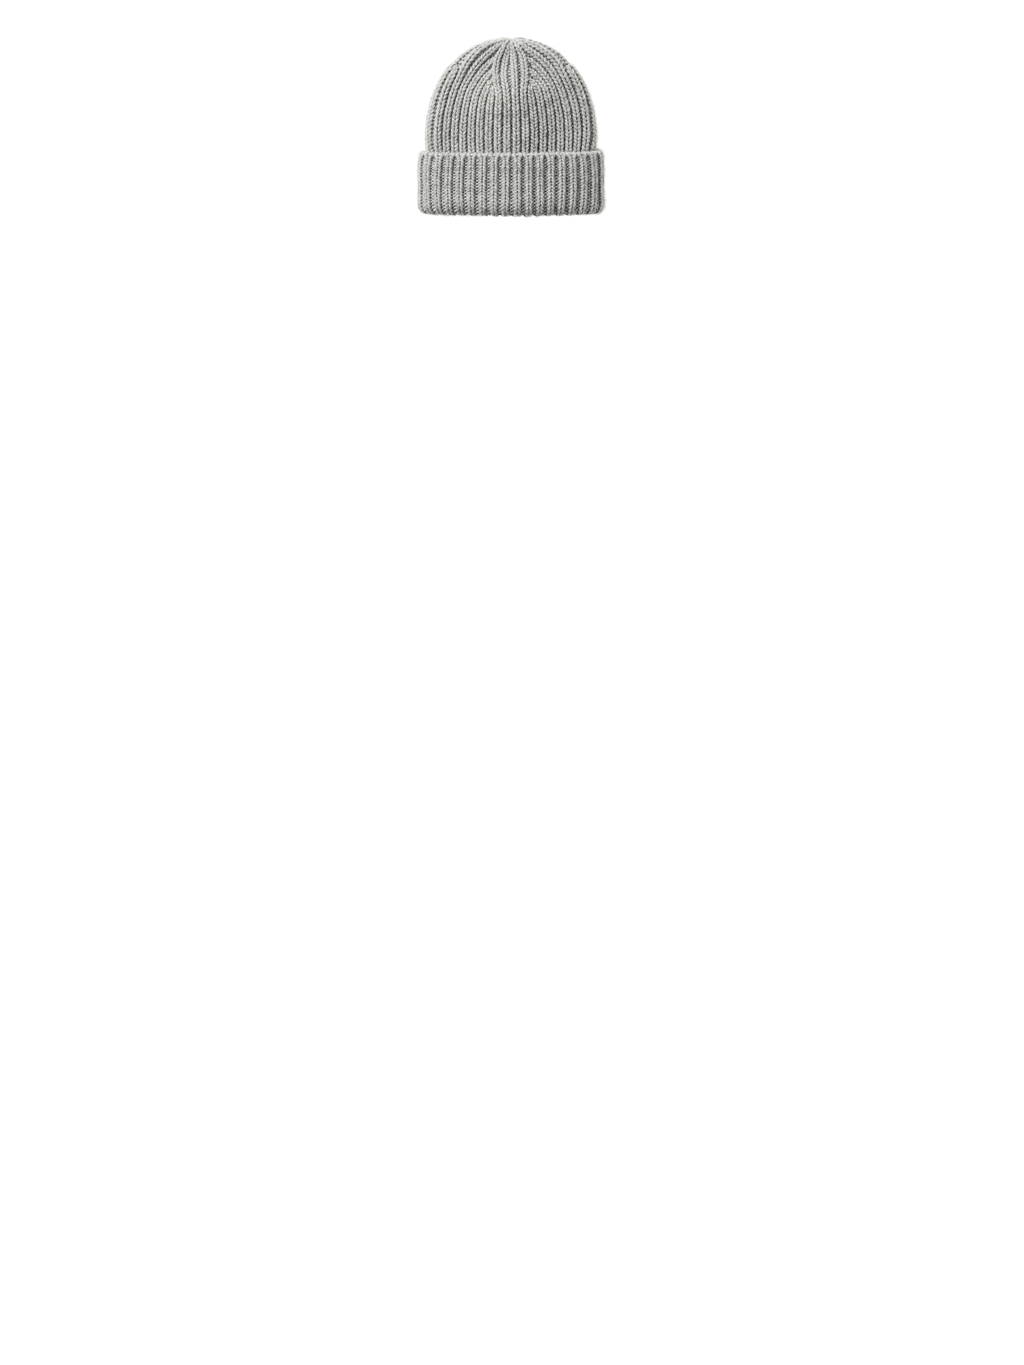
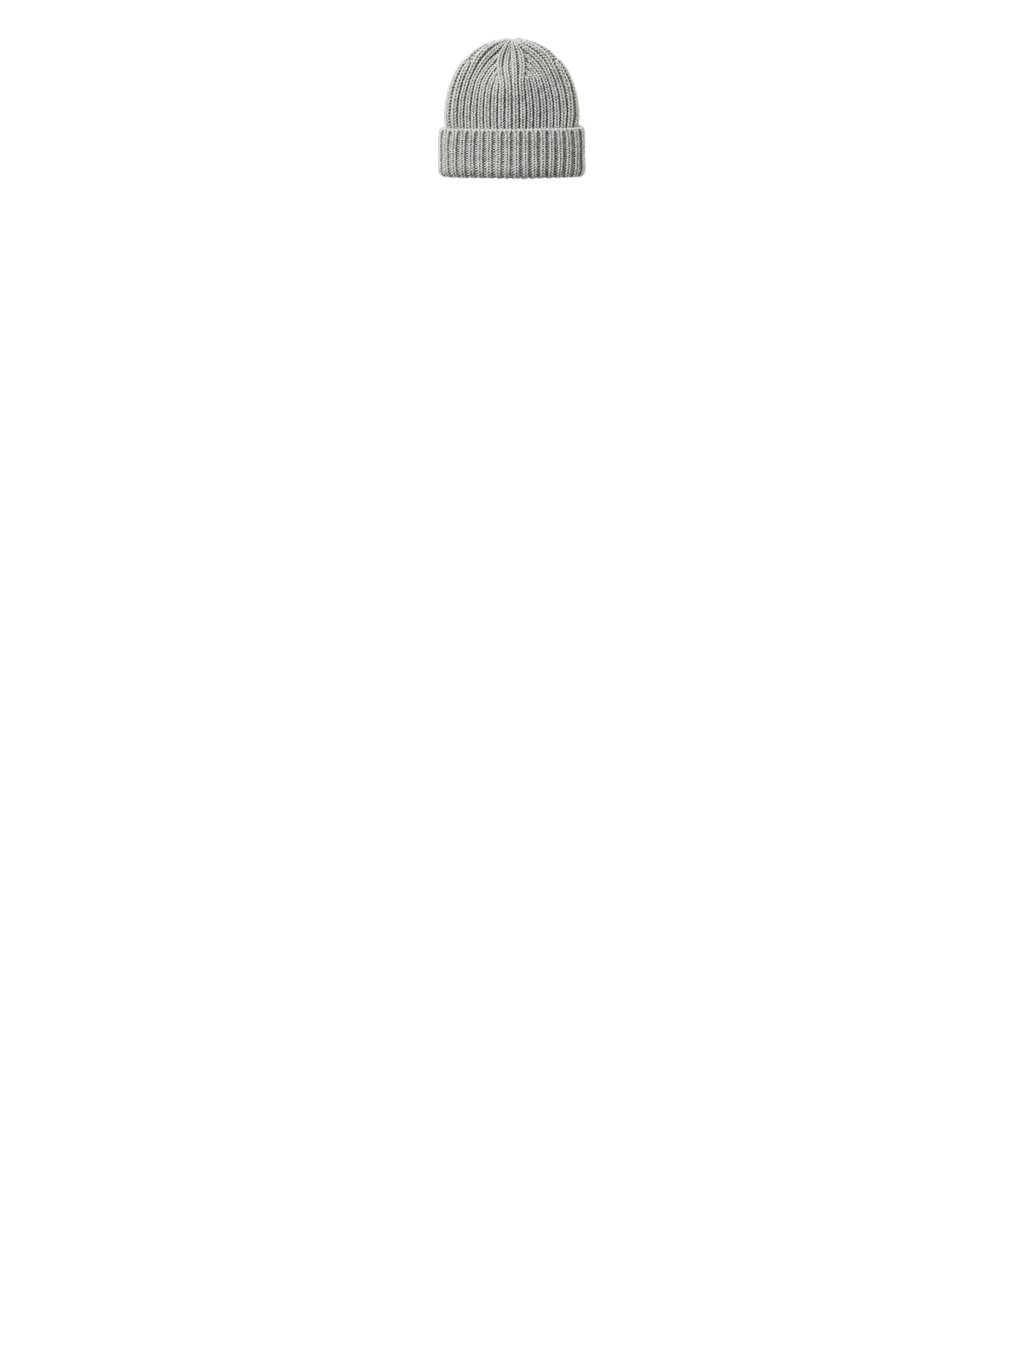
feat: add hat fitting automation script and generate associated preview assets

Changed region(s): [[0.4062, 0.0308, 0.5938, 0.1846]]

diff --git a/fit_hat.py b/fit_hat.py
@@ -1,0 +1,43 @@
+#!/usr/bin/env python3
+import sys
+import os
+from PIL import Image
+
+def create_preview(model_path, hat_path, output_path, target_width, target_bottom):
+    model = Image.open(model_path).convert("RGBA")
+    
+    # Load and crop hat
+    hat = Image.open(hat_path).convert("RGBA")
+    alpha = hat.getchannel("A")
+    bbox = alpha.getbbox()
+    if not bbox:
+        print(f"Empty hat: {hat_path}")
+        return
+        
+    cropped = hat.crop(bbox)
+    w, h = cropped.size
+    
+    # Scale keeping aspect ratio
+    scale = target_width / w
+    new_w = round(target_width)
+    new_h = round(h * scale)
+    resized = cropped.resize((new_w, new_h), Image.LANCZOS)
+    
+    # Calculate position
+    px = round(512 - new_w / 2)
+    py = round(target_bottom - new_h)
+    
+    # Overlay on model
+    preview = model.copy()
+    preview.alpha_composite(resized, (px, py))
+    
+    # Crop to head region for detailed inspection (x: 300..700, y: 0..400)
+    head_region = preview.crop((300, 0, 700, 400))
+    head_region.save(output_path, "PNG")
+    print(f"Saved preview: {output_path} (width={target_width}, bottom={target_bottom})")
+
+if __name__ == "__main__":
+    if len(sys.argv) < 6:
+        print("Usage: fit_hat.py <model> <hat> <out> <width> <bottom>")
+        sys.exit(1)
+    create_preview(sys.argv[1], sys.argv[2], sys.argv[3], float(sys.argv[4]), float(sys.argv[5]))
